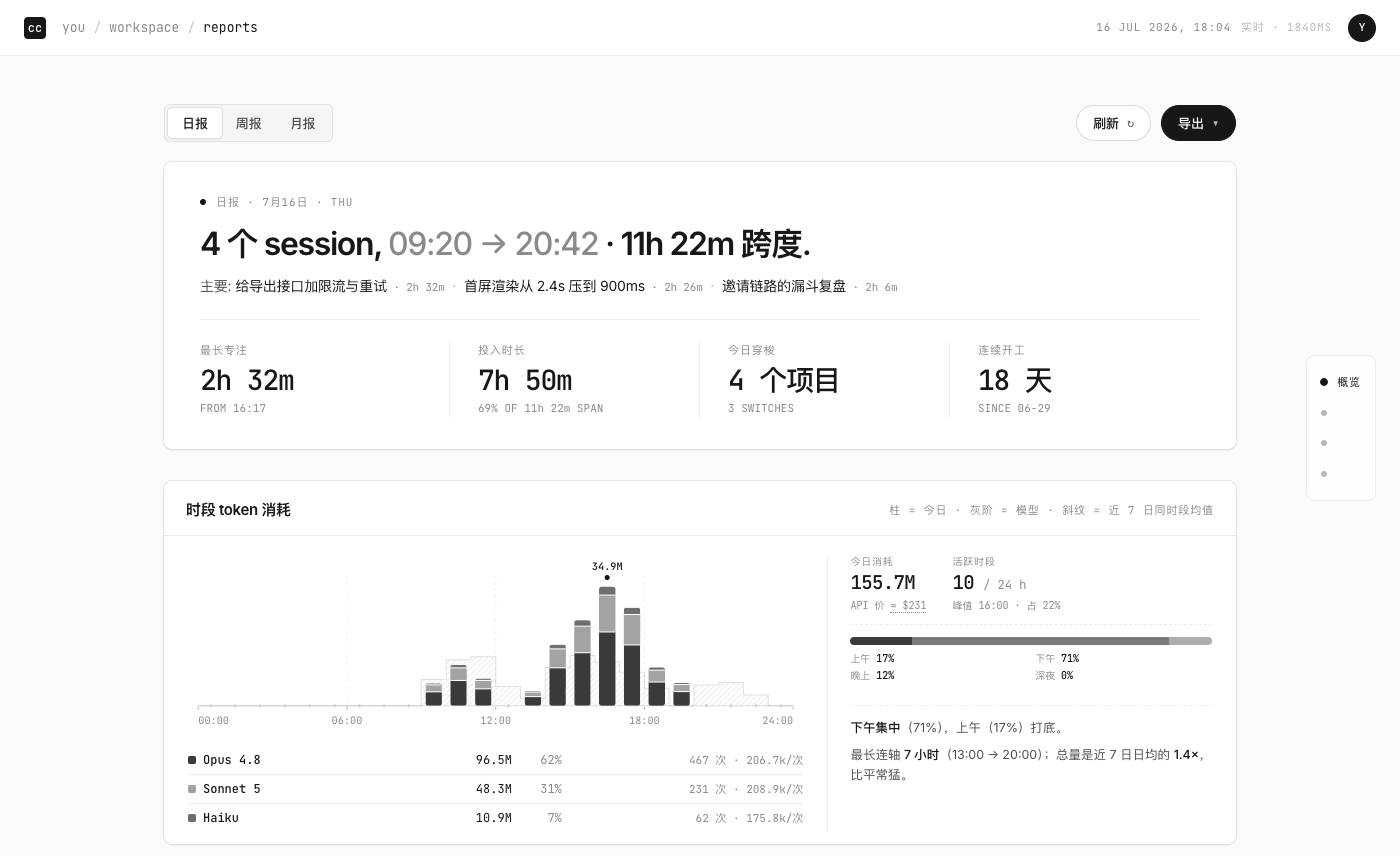
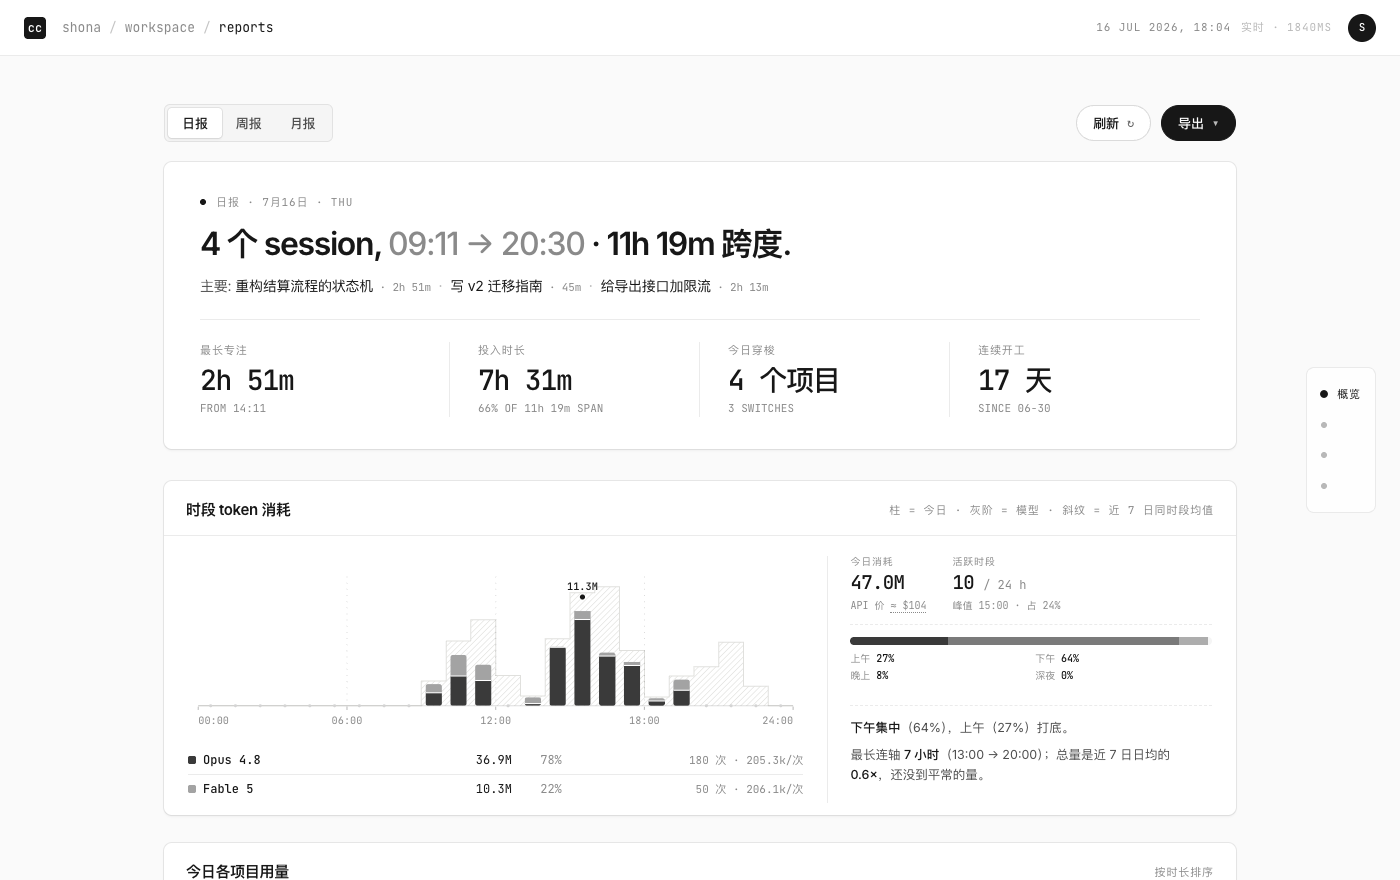
docs: README 加演示动图，配图统一到同一份 demo 数据
- assets/demo.gif（1200px / 12fps / 3.7MB）：9 秒真实操作录屏——点柱子出小时详情、
  点 $ 出成本明细、切周报、停靠 tab 飞进导航栏。源片 2934×1858/60fps/18MB，
  裁掉窗外壁纸 + 降到 12fps + 112 色 + gifsicle 有损优化压到 3.7MB，正文小字仍可读。
  （GitHub 上 `![](x.mp4)` 不会变成播放器，GIF 才能内联自动播放，故走 GIF。）
- 两张静图重截：原图是旧 demo 数据（用户名 you / 项目无序号 / 含 Haiku），与新动图
  （shona / 01-saas-web / Opus+Fable）对不上，同一份 README 出现两套数据会露馅。
- 动图当页首主图，日报静图下沉到「日报」小节做静态对照。

diff --git a/README.md b/README.md
@@ -11,15 +11,17 @@ by 布灵布灵灵 · [小红书](https://xhslink.com/m/1ht5s0trmNo) · [GitHub]
 
 这像是一本工作日历。
 
-![日报](assets/dashboard-daily.png)
+![cc-reports 演示](assets/demo.gif)
 
-> 配图为演示数据。你自己的报告只在本机生成，不经过任何服务器。
+> 全站配图与动图均为**演示数据**（项目名 `01-saas-web` 之类都是编的）。你自己的报告只在本机生成，不经过任何服务器。
 
 ---
 
 ## 它给你看什么
 
 **日报**
+
+![日报](assets/dashboard-daily.png)
 
 - **四个里程碑**：最长专注（最长的单段 session）· 投入时长（各 session 活跃时长之和，标出它占今天跨度多少）· 今日穿梭（碰了几个项目、切换几次）· 连续开工（到今天没断几天）
 - **时段 token 消耗**：24 根柱子按模型堆叠，背后那层斜纹是**你近 7 日同时段的常态**——今天是高出常态还是塌下去，一眼可读。右边跟着一栏解析：上午/下午/晚上/深夜占比、峰值时段、今天总量是日均的几倍。点柱子看那一小时的模型分布。